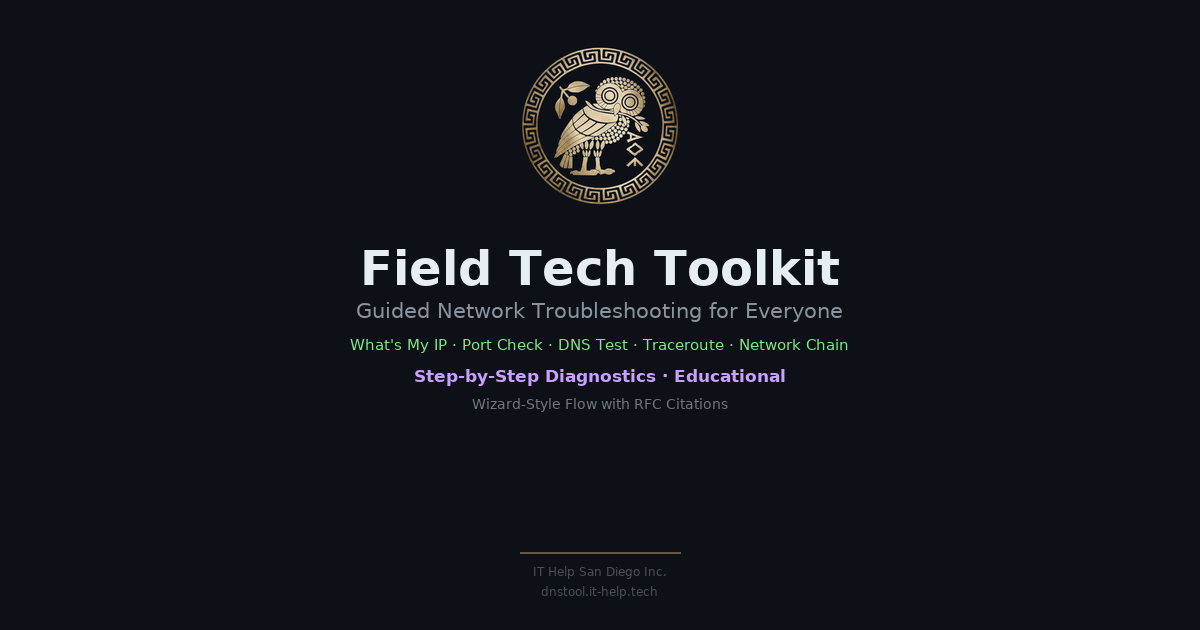
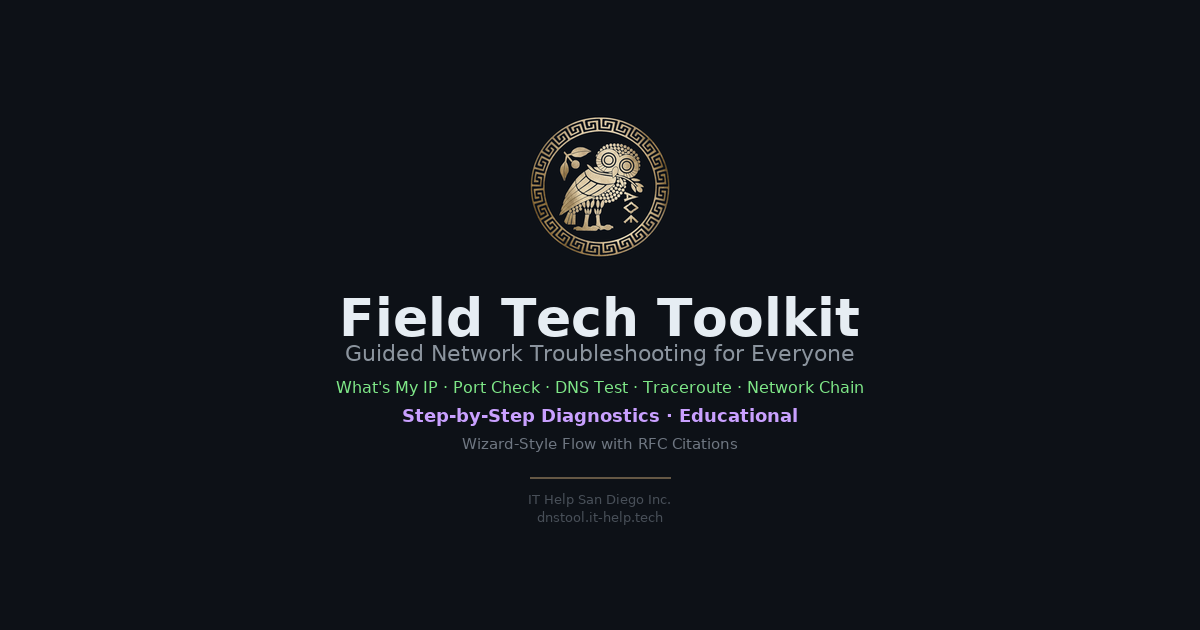
Improve visual layout and accuracy of generated social media images
Adjusted the image generation script to recalculate and center content blocks vertically on the canvas, enhancing visual balance. Updated text content within generated images to accurately reflect page titles and subtitles.

Replit-Commit-Author: Agent
Replit-Commit-Session-Id: 6771c304-e587-47df-bf5b-409bdfbeade9
Replit-Commit-Checkpoint-Type: full_checkpoint
Replit-Commit-Event-Id: 25648d72-7109-4d9e-b43a-38015a3a60ff
Replit-Commit-Screenshot-Url: https://storage.googleapis.com/screenshot-production-us-central1/f2c73519-b3f3-4c33-90b1-699f833acae8/6771c304-e587-47df-bf5b-409bdfbeade9/rEVXYEU
Replit-Helium-Checkpoint-Created: true

Changed region(s): [[0.2775, 0.0603, 0.7092, 0.7238], [0.4317, 0.8746, 0.555, 0.9651], [0.4317, 0.754, 0.555, 0.8444]]

diff --git a/scripts/generate-og-images.py b/scripts/generate-og-images.py
@@ -1,14 +1,10 @@
 #!/usr/bin/env python3
 """Generate OG social card images for DNS Tool.
 
-Layout: 1200x630, centered composition.
-- Owl emblem (~180px) centered horizontally, positioned in upper region
-- Title large and centered
-- Subtitle centered below
-- Protocol tags in accent green, centered
-- Highlight in accent purple, centered
-- Detail line centered
-- Company + URL at bottom with gold accent line
+Layout: 1200x630, vertically balanced composition.
+The content block (owl + text + footer) is measured first,
+then vertically centered in the canvas so nothing clusters
+at the top or leaves dead space at the bottom.
 """
 
 import os
@@ -30,6 +26,23 @@ ACCENT_GOLD = (200, 168, 120)
 FONT_BOLD = "/usr/share/fonts/truetype/dejavu/DejaVuSans-Bold.ttf"
 FONT_REGULAR = "/usr/share/fonts/truetype/dejavu/DejaVuSans.ttf"
 
+OWL_SIZE = 160
+TITLE_SIZE = 52
+SUBTITLE_SIZE = 22
+TAGS_SIZE = 16
+HIGHLIGHT_SIZE = 18
+DETAIL_SIZE = 15
+FOOTER_SIZE = 13
+
+GAP_OWL_TITLE = 20
+GAP_TITLE_SUBTITLE = 12
+GAP_SUBTITLE_TAGS = 16
+GAP_TAGS_HIGHLIGHT = 12
+GAP_HIGHLIGHT_DETAIL = 12
+GAP_DETAIL_FOOTER = 28
+GAP_LINE_COMPANY = 12
+GAP_COMPANY_URL = 4
+
 
 def load_font(path, size):
     try:
@@ -38,64 +51,92 @@ def load_font(path, size):
         return ImageFont.load_default()
 
 
-def text_center_x(draw, text, font):
+def text_width(draw, text, font):
     bbox = draw.textbbox((0, 0), text, font=font)
-    tw = bbox[2] - bbox[0]
-    return (W - tw) // 2
+    return bbox[2] - bbox[0]
+
+
+def text_height(draw, text, font):
+    bbox = draw.textbbox((0, 0), text, font=font)
+    return bbox[3] - bbox[1]
+
+
+def center_x(draw, text, font):
+    return (W - text_width(draw, text, font)) // 2
 
 
 def generate(filename, title, subtitle, tags, highlight, detail):
     img = Image.new("RGBA", (W, H), BG_COLOR)
     draw = ImageDraw.Draw(img)
 
-    owl = Image.open(OWL_PATH).convert("RGBA")
-    owl_size = 180
-    owl = owl.resize((owl_size, owl_size), Image.LANCZOS)
-    owl_x = (W - owl_size) // 2
-    owl_y = 36
-    img.paste(owl, (owl_x, owl_y), owl)
-
-    content_top = owl_y + owl_size + 24
-
-    font_title = load_font(FONT_BOLD, 48)
-    font_subtitle = load_font(FONT_REGULAR, 21)
-    font_tags = load_font(FONT_REGULAR, 15)
-    font_highlight = load_font(FONT_BOLD, 17)
-    font_detail = load_font(FONT_REGULAR, 14)
-    font_footer = load_font(FONT_REGULAR, 12)
-
-    y = content_top
-    x = text_center_x(draw, title, font_title)
-    draw.text((x, y), title, fill=TEXT_PRIMARY, font=font_title)
-    y += 58
-
-    x = text_center_x(draw, subtitle, font_subtitle)
-    draw.text((x, y), subtitle, fill=TEXT_SECONDARY, font=font_subtitle)
-    y += 38
-
-    x = text_center_x(draw, tags, font_tags)
-    draw.text((x, y), tags, fill=ACCENT_GREEN, font=font_tags)
-    y += 30
-
-    x = text_center_x(draw, highlight, font_highlight)
-    draw.text((x, y), highlight, fill=ACCENT_PURPLE, font=font_highlight)
-    y += 30
-
-    x = text_center_x(draw, detail, font_detail)
-    draw.text((x, y), detail, fill=TEXT_MUTED, font=font_detail)
-
-    line_w = 160
-    line_y = H - 78
-    line_x1 = (W - line_w) // 2
-    line_x2 = line_x1 + line_w
-    draw.line([(line_x1, line_y), (line_x2, line_y)], fill=ACCENT_GOLD + (120,), width=2)
+    font_title = load_font(FONT_BOLD, TITLE_SIZE)
+    font_subtitle = load_font(FONT_REGULAR, SUBTITLE_SIZE)
+    font_tags = load_font(FONT_REGULAR, TAGS_SIZE)
+    font_highlight = load_font(FONT_BOLD, HIGHLIGHT_SIZE)
+    font_detail = load_font(FONT_REGULAR, DETAIL_SIZE)
+    font_footer = load_font(FONT_REGULAR, FOOTER_SIZE)
 
     company = "IT Help San Diego Inc."
     url = "dnstool.it-help.tech"
-    x = text_center_x(draw, company, font_footer)
-    draw.text((x, H - 66), company, fill=TEXT_DIM, font=font_footer)
-    x = text_center_x(draw, url, font_footer)
-    draw.text((x, H - 46), url, fill=TEXT_DIM, font=font_footer)
+
+    h_owl = OWL_SIZE
+    h_title = text_height(draw, title, font_title)
+    h_subtitle = text_height(draw, subtitle, font_subtitle)
+    h_tags = text_height(draw, tags, font_tags)
+    h_highlight = text_height(draw, highlight, font_highlight)
+    h_detail = text_height(draw, detail, font_detail)
+    h_company = text_height(draw, company, font_footer)
+    h_url = text_height(draw, url, font_footer)
+    line_h = 2
+
+    total = (h_owl + GAP_OWL_TITLE +
+             h_title + GAP_TITLE_SUBTITLE +
+             h_subtitle + GAP_SUBTITLE_TAGS +
+             h_tags + GAP_TAGS_HIGHLIGHT +
+             h_highlight + GAP_HIGHLIGHT_DETAIL +
+             h_detail + GAP_DETAIL_FOOTER +
+             line_h + GAP_LINE_COMPANY +
+             h_company + GAP_COMPANY_URL +
+             h_url)
+
+    y = (H - total) // 2
+
+    owl = Image.open(OWL_PATH).convert("RGBA")
+    owl = owl.resize((OWL_SIZE, OWL_SIZE), Image.LANCZOS)
+    img.paste(owl, ((W - OWL_SIZE) // 2, y), owl)
+    y += h_owl + GAP_OWL_TITLE
+
+    draw.text((center_x(draw, title, font_title), y), title,
+              fill=TEXT_PRIMARY, font=font_title)
+    y += h_title + GAP_TITLE_SUBTITLE
+
+    draw.text((center_x(draw, subtitle, font_subtitle), y), subtitle,
+              fill=TEXT_SECONDARY, font=font_subtitle)
+    y += h_subtitle + GAP_SUBTITLE_TAGS
+
+    draw.text((center_x(draw, tags, font_tags), y), tags,
+              fill=ACCENT_GREEN, font=font_tags)
+    y += h_tags + GAP_TAGS_HIGHLIGHT
+
+    draw.text((center_x(draw, highlight, font_highlight), y), highlight,
+              fill=ACCENT_PURPLE, font=font_highlight)
+    y += h_highlight + GAP_HIGHLIGHT_DETAIL
+
+    draw.text((center_x(draw, detail, font_detail), y), detail,
+              fill=TEXT_MUTED, font=font_detail)
+    y += h_detail + GAP_DETAIL_FOOTER
+
+    line_w = 140
+    draw.line([((W - line_w) // 2, y), ((W + line_w) // 2, y)],
+              fill=ACCENT_GOLD + (120,), width=2)
+    y += line_h + GAP_LINE_COMPANY
+
+    draw.text((center_x(draw, company, font_footer), y), company,
+              fill=TEXT_DIM, font=font_footer)
+    y += h_company + GAP_COMPANY_URL
+
+    draw.text((center_x(draw, url, font_footer), y), url,
+              fill=TEXT_DIM, font=font_footer)
 
     out_path = os.path.join(STATIC_DIR, filename)
     img_rgb = Image.new("RGB", (W, H), BG_COLOR)
@@ -110,7 +151,7 @@ cards = [
      "DNS Tool",
      "Domain Security Intelligence",
      "SPF \u00b7 DKIM \u00b7 DMARC \u00b7 DANE \u00b7 DNSSEC \u00b7 BIMI \u00b7 MTA-STS \u00b7 TLS-RPT \u00b7 CAA",
-     "9 Protocols Evaluated \u00b7 RFC-Verified",
+     "9 Protocols \u00b7 RFC-Verified \u00b7 Open-Core",
      "Intelligence Confidence Audit Engine (ICAE)"),
     ("og-toolkit.png",
      "Field Tech Toolkit",
@@ -120,13 +161,13 @@ cards = [
      "Wizard-Style Flow with RFC Citations"),
     ("og-investigate.png",
      "IP Intelligence",
-     "Investigate IP-to-Domain Relationships",
+     "Is This IP Part of Your Infrastructure?",
      "ASN \u00b7 Geolocation \u00b7 Reverse DNS \u00b7 RDAP \u00b7 SPF Authorization",
      "Evidence-Based Attribution \u00b7 Multi-Source",
      "Certificate Transparency \u00b7 Subdomain Discovery"),
     ("og-email-header.png",
-     "Email Intelligence",
-     "Email Header Analyzer \u00b7 Spoofing Detection",
+     "Email Header Analyzer",
+     "Did This Email Actually Come from Who It Claims?",
      "SPF \u00b7 DKIM \u00b7 DMARC \u00b7 Delivery Routing \u00b7 Spam Vendor Detection",
      "Authentication Verification \u00b7 RFC-Compliant",
      "OpenPhish Integration \u00b7 Brand Mismatch Detection"),
